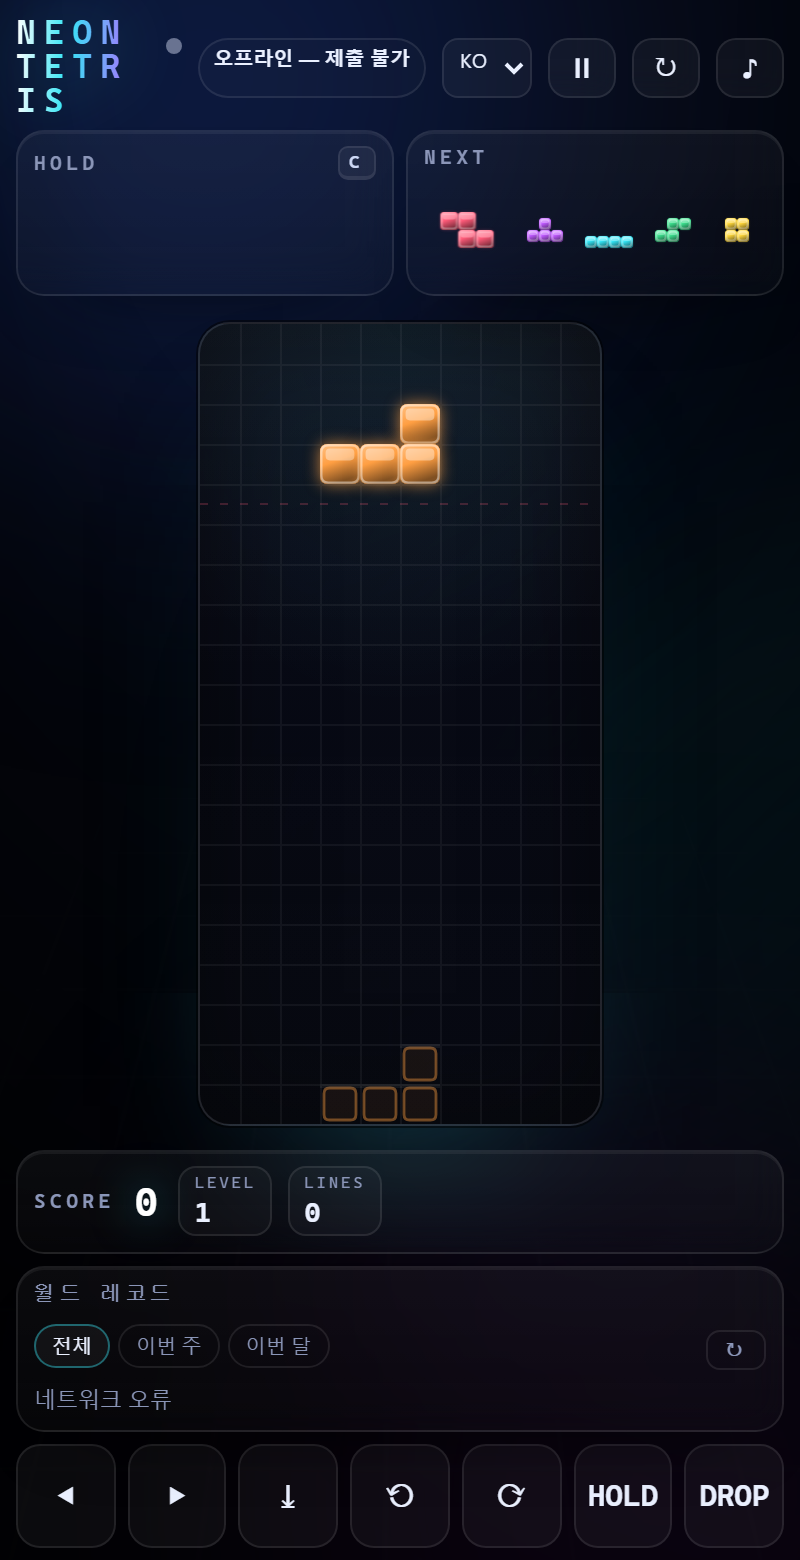
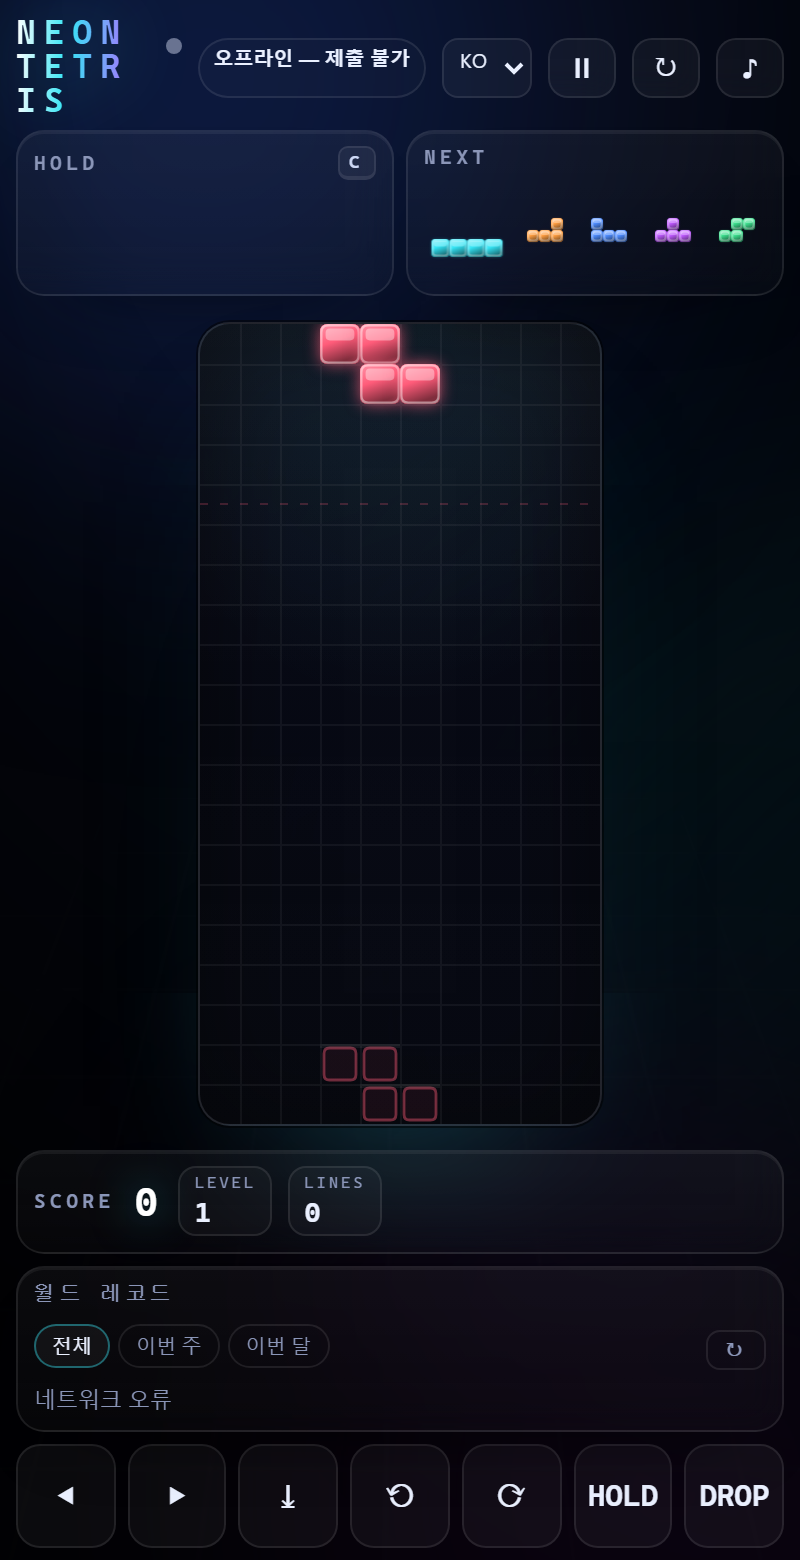
T-스핀 규칙 r1(하드 드롭 시 스핀 해제) + 규칙 버전 리플레이 포맷 + 공유 키 64bit
- audit: 하드 드롭으로 실제로 내려간 뒤에도 회전 플래그가 남아 T-스핀으로 인정되던 것 수정(가이드라인은 '마지막 동작이 회전'일 때만 인정)
- engine: 하드 드롭 dist>0 → spinFlag 해제, dist=0(회전 인스냅트) 은 유지
- replay: NT2 포맷(마지막에 rules), canonical 에 rules 포함, NT1 은 r0 으로 읽기
- server: runs.rules 컬럼(마이그레이션), 다른 규칙 버전은 재시뮬 전에 early 거절
- share key: 48bit → 64bit + 체크섬(링크가 곧 소유 증서이고 만료가 없으므로)
- tests: T-스핀 16종(TSD 진입/무회전/제자리 드롭/이동 드롭/중력/킥 만회/NT1 호환), 공유 키 형식, 규칙 버전 불일치 거절
- probe: 실제 시작 경로 호출 + 녹화 메타 규칙 버전 확인(이 파일에서 잡히지 않던 ReferenceError 급을 잡도록)
- docs: 규칙 버전 섹션(왜 올려야 하는지), SECURITY 링크 키/규칙 버전 행

diff --git a/tools/selftest.js b/tools/selftest.js
@@ -152,7 +152,86 @@ const ws = EN.simulate(wrongSeed);
 ok('시드 교체 → 결과 불일치', ws.engine.boardHash() !== rep.hash);
 ok('해시로 시드 검증 가능', ws.engine.sequenceHash() !== EN.create({ seed: rep.seed }).sequenceHash());
 
-/* ---------- 7. AI 성능(휴리스틱 기준선) ---------- */
+/* ---------- 7. T-스핀 — 가이드라인 판정 (규칙 r1) ---------- */
+group('T-스핀 — 회전으로만 진입해야 인정 (r1)');
+/** TSD 픽스처:
+ *   row17  # . . . . . . . . .      ← 오버행
+ *   row18  . . . _ _ _ . . . .      ← 조각이 채울 자리
+ *   row19  . . . # _ # . . . .      ← 앞면 양쪽 모서리(바닥 아님, 실제 블록)
+ */
+function tsdBoard() {
+  const b = C.createBoard();
+  for (let x = 0; x < 10; x++) {
+    if (x !== 4) b[19][x] = 'J';
+    if (x !== 3 && x !== 4 && x !== 5) b[18][x] = 'J';
+  }
+  b[17][3] = 'J';
+  return b;
+}
+function putT(seed) {
+  const et = EN.create({ seed: seed });
+  et.board = tsdBoard();
+  et.piece = null; et.spawn('T');
+  return et;
+}
+const settle = (et) => { for (let i = 0; i < EN.CLEAR_TICKS + 4; i++) et.tick(); };
+
+let et = putT('tsd-spin');
+et.piece.rot = 1; et.piece.x = 3; et.piece.y = 17;                 //회전 전 상태(접지 확인됨)
+ok('회전 전에는 그 자리에 닿아 있다(회전이 유일한 진입 수단)', C.collides(et.board, C.STATES.T[1], 3, 18));
+ok('회전 성공', et.rotate(1) === true);
+et.lockPiece(); settle(et);
+ok('회전으로 진입 → T-스핀 인정', et.tspins === 1, et.tspins);
+ok('T-스핀 더블 = 2줄 / 1200점', et.lines === 2 && et.score === 1200, et.lines + '/' + et.score);
+
+et = putT('tsd-nosin');
+et.piece.rot = 2; et.piece.x = 3; et.piece.y = 17; et.lockPiece(); settle(et);   //그냥 놓기
+ok('회전 없이 같은 자리 → 일반 더블(300점)', et.tspins === 0 && et.score === 300, et.tspins + '/' + et.score);
+
+et = putT('tsd-inplace');
+et.piece.rot = 1; et.piece.x = 3; et.piece.y = 17; et.rotate(1); et.hardDrop(); settle(et);
+ok('회전 후 제자리 하드 드롭(이동 0)은 스핀 유지', et.tspins === 1 && et.score === 1200, et.tspins + '/' + et.score);
+
+et = EN.create({ seed: 'drop-moves' }); et.piece = null; et.spawn('T');
+et.rotate(1);
+ok('회전 → 플래그', et.spinFlag === true);
+et.hardDrop();                                                   //먼 거리로 미끄러짐
+ok('하드 드롭으로 이동하면 마지막 동작이 회전이 아니다 → 스핀 해제 (r1)', et.spinFlag === false && et.tspins === 0, et.spinFlag + '/' + et.tspins);
+ok('하드 드롭 점수(칸당 +2)는 그대로', et.score >= 30, et.score);
+
+et = putT('gravity');
+et.piece.rot = 2; et.piece.x = 3; et.piece.y = 10;
+let g2 = 0; while (et.pieces === 0 && g2++ < 400) et.tick();      //중력으로만 착지
+ok('중력 착지는 스핀이 아니다', et.tspins === 0, et.tspins);
+
+/* 앞면 모서리가 한쪽만 차도 5번째 킥(대각 만회)이면 full.
+   rot1(nub 오른쪽) · x=3,y=17: 모서리 = (3,17)TL (5,17)TR (3,19)BL (5,19)BR, 앞면은 TR/BR.
+   TL+BL+BR 이 차면 3코너인데 앞면은 BR 하나뿐 → mini. */
+const b5 = C.createBoard();
+b5[17][3] = 'J'; b5[19][3] = 'J'; b5[19][5] = 'J';
+ok('3코너 + 앞면 한쪽 = mini', C.tspinKind(b5, { type: 'T', x: 3, y: 17, rot: 1 }, 0) === 'mini',
+  C.tspinKind(b5, { type: 'T', x: 3, y: 17, rot: 1 }, 0));
+ok('같은 자리에서 5번째 킥이면 full 로 만회', C.tspinKind(b5, { type: 'T', x: 3, y: 17, rot: 1 }, 4) === 'full',
+  C.tspinKind(b5, { type: 'T', x: 3, y: 17, rot: 1 }, 4));
+const b5b = C.createBoard();
+b5b[17][3] = 'J'; b5b[17][5] = 'J';
+ok('코너 2개 이하면 노스핀', C.tspinKind(b5b, { type: 'T', x: 3, y: 17, rot: 1 }, 0) === 'none',
+  C.tspinKind(b5b, { type: 'T', x: 3, y: 17, rot: 1 }, 0));
+
+/* ---------- 8. 규칙 버전 ---------- */
+group('규칙 버전(r1)이 리플레이에 박힌다');
+const repV = AI.run({ seed: 'rules-ver', preset: 'human', rng: AI.makeRand('rv') });
+ok('pack 된 리플레이에 규칙 버전', RP.unpack(RP.pack(repV)).rules === EN.RULES_ID, RP.unpack(RP.pack(repV)).rules);
+ok('규칙이 다르면 digest 도 다르다',
+  RP.canonical(Object.assign({}, repV, { rules: 'r9' })) !== RP.canonical(repV));
+ok('NT1(레거시) 포맷도 읽는다', (function () {
+  const p = RP.pack(repV).split(':');                       // NT2 = 12필드
+  const legacyText = 'NT1:' + p.slice(1, 11).join(':');      // 규칙 필드를 뺀 11필드
+  return RP.unpack(legacyText).rules === RP.LEGACY_RULES;
+})());
+
+
+/* ---------- 9. AI 성능(휴리스틱 기준선) ---------- */
 group('AI 기준선');
 const fast = AI.run({ seed: 'fast-bot', skill: { delay: 0, gap: 1 } });
 const slow = AI.run({ seed: 'fast-bot', skill: { delay: 12, gap: 8 } });

diff --git a/replay.js b/replay.js
@@ -17,7 +17,10 @@
 })(typeof self !== 'undefined' ? self : globalThis, function (EN) {
   'use strict';
 
-  const VERSION = 'NT1';
+  /* NT2 = 규칙 버전(r1 등)을 payload 끝에 붙인다. NT1(레거시) 은 r0 으로 읽는다.
+     규칙이 다른 리플레이는 서버가 재현할 수 없으니 일찍 구분해 둔다. */
+  const VERSION = 'NT2';
+  const LEGACY_RULES = 'r0';
   const PRESS = { left: 'l', right: 'r', down: 'd', cw: 'c', ccw: 'z', flip: 'f', hard: 'h', hold: 'o' };
   const REL = { left: 'L', right: 'R', down: 'D' };
   const BY_CODE = {};
@@ -59,7 +62,7 @@
 
   /** 서버·클라임이 같은 문자열로 digest 를 만들 수 있도록 규격화를 한 곳에 둔다. */
   function canonical(rec) {
-    return [VERSION, rec.mode, rec.level | 0, rec.g20 ? 1 : 0, rec.seed, encodeInputs(rec.inputs || [])].join('|');
+    return ['NT', rec.rules || LEGACY_RULES, rec.mode, rec.level | 0, rec.g20 ? 1 : 0, rec.seed, encodeInputs(rec.inputs || [])].join('|');
   }
 
   /* ---- 전체 레코드 ---- */
@@ -67,14 +70,15 @@
     return [
       VERSION, rec.mode, rec.level | 0, rec.g20 ? 1 : 0, rec.seed,
       rec.ticks | 0, rec.score | 0, rec.lines | 0, rec.pieces | 0, rec.hash,
-      encodeInputs(rec.inputs || []),
+      encodeInputs(rec.inputs || []), rec.rules || EN.RULES_ID,
     ].join(':');
   }
 
   function unpack(text) {
     const p = String(text).trim().split(':');
-    if (p.length !== 11) throw new Error('항목 수 불일치');
-    if (p[0] !== VERSION) throw new Error('버전 불일치: ' + p[0]);
+    const legacy = p[0] === 'NT1';
+    if (p.length !== (legacy ? 11 : 12)) throw new Error('항목 수 불일치');
+    if (!legacy && p[0] !== VERSION) throw new Error('버전 불일치: ' + p[0]);
     const mode = p[1];
     if (!EN.MODES[mode]) throw new Error('알 수 없는 모드: ' + mode);
     const inputs = decodeInputs(p[10]);
@@ -89,6 +93,7 @@
       lines: parseInt(p[7], 10) || 0,
       pieces: parseInt(p[8], 10) || 0,
       hash: p[9],
+      rules: legacy ? LEGACY_RULES : p[11],
       inputs: inputs,
       lastInputTick: inputs.length ? inputs[inputs.length - 1].t : 0,
     };
@@ -96,6 +101,7 @@
 
   /** 서버가 재시뮬하기 전에 거르는 저비용 형태 검사 */
   const SEED_RE = /^[0-9a-zA-Z_-]{6,64}$/;
+  const RULES_RE = /^[a-z][a-z0-9]{0,3}$/;
   function checkShape(rec, lim) {
     lim = lim || {};
     const maxInputs = lim.maxInputs || 40000;
@@ -111,6 +117,7 @@
     if (!(rec.lines >= 0 && rec.lines <= 4000)) errs.push('lines');
     if (!(rec.pieces >= 0 && rec.pieces <= 40000)) errs.push('pieces');
     if (!/^[0-9a-z]{4,10}$/.test(String(rec.hash))) errs.push('hash');
+    if (!RULES_RE.test(String(rec.rules || LEGACY_RULES))) errs.push('rules');
     if (!(rec.inputs.length > 0)) errs.push('no-inputs');
     if (rec.inputs.length > maxInputs) errs.push('too-many-inputs');
     let prev = 0;
@@ -157,6 +164,7 @@
 
   return {
     VERSION: VERSION,
+    LEGACY_RULES: LEGACY_RULES,
     canonical: canonical,
     PRESS: PRESS, REL: REL,
     encodeInputs: encodeInputs,

diff --git a/engine.js b/engine.js
@@ -28,6 +28,15 @@
   const MAX_LEVEL = 20;
   const PREVIEW = 5;
 
+  /**
+   * 규칙 버전. 리플레이는 "같은 입력 → 같은 결과"를 약속하는 문서 같은 것이므로,
+   * 점수표·킥 테이블·T-스핀 판정 같은 규칙을 바꾸면 반드시 올린다.
+   * 안 올리면 과거 리플레이가 서버에서 다른 점수로 재현되어 **검증 불가능한 유물**이 되고,
+   * 그건 나중에 되돌릴 방법이 없다.
+   *   r1 : SRS+월킥, 3-corner T-스핀(5th킥 full 승격), **하드 드롭으로 이동하면 스핀 해제**, 가이드라인 스코어링
+   */
+  const RULES_ID = 'r1';
+
   /* ---------- 모드 ---------- */
   const MODES = {
     marathon: { name: 'MARATHON', targetLines: 0, timeLimit: 0, metric: 'score' },
@@ -96,6 +105,7 @@
       g20: g20,
       seed: seed,
       version: 1,
+      rules: RULES_ID,
 
       state: 'playing',      // playing | clearing | over
       overReason: null,      // topout | finish | time
@@ -235,6 +245,11 @@
       while (!C.collides(E.board, m, E.piece.x, E.piece.y + 1)) { E.piece.y++; dist++; }
       E.lastHard = true;
       if (dist) {
+        /* 가이드라인: T-스핀은 "마지막 동작이 회전"일 때만 인정된다.
+           아래로 미끄러져 내려갔다면 마지막 동작은 이동이므로 스핀이 아니다.
+           단 이동 거리가 0(제자리에서 회전하고 그대로 잠금)이면 회전 효과가 남는다 —
+           회전 인스냅트 착지의 일반 동작과 일치. */
+        E.spinFlag = false;
         E.score += dist * 2;
         ev('harddrop', {
           dist: dist,
@@ -496,7 +511,7 @@
     /** 서버 검증·보드에 쓰이는 최종 결과 (재현 판정 대상) */
     function result() {
       return {
-        mode: E.mode, level: E.startLevel, g20: E.g20, seed: E.seed,
+        mode: E.mode, level: E.startLevel, g20: E.g20, seed: E.seed, rules: E.rules,
         score: E.score, lines: E.lines, pieces: E.pieces, ticks: E.ticks,
         hash: boardHash(),
         state: E.state, overReason: E.overReason,
@@ -583,6 +598,7 @@
   }
 
   return {
+    RULES_ID: RULES_ID,
     TICK: TICK, HZ: HZ,
     DAS: DAS, ARR: ARR, SOFT: SOFT, LOCK: LOCK, CLEAR_TICKS: CLEAR_TICKS,
     MAX_RESETS: MAX_RESETS, MAX_LEVEL: MAX_LEVEL, PREVIEW: PREVIEW,

diff --git a/tools/verifytest.js b/tools/verifytest.js
@@ -141,7 +141,7 @@ async function playAndSubmit(me, opt) {
   ok('status verified 또는 flagged', ['verified', 'flagged'].indexOf(p1.submit.json.status) >= 0, p1.submit.json);
   ok('점수가 실제로 재현됨(서버 재시뮬)', p1.submit.json.status !== 'rejected');
   ok('1위 등록', p1.submit.json.rank === 1, p1.submit.json.rank);
-  ok('공유 키 형식', /^[0-9a-f]{12}[0-9a-z]$/.test(p1.submit.json.share || ''), p1.submit.json.share);
+  ok('공유 키 형식', /^[0-9a-f]{16}[0-9a-z]$/.test(p1.submit.json.share || ''), p1.submit.json.share);
   ok('flags 배열', Array.isArray(p1.submit.json.flags));
   console.log('    → ' + p1.submit.json.status + ' / ' + p1.rep.score + '점 / PPS ' + p1.submit.json.metrics.pps.toFixed(2) +
     ' / gapModeShare ' + (p1.submit.json.metrics.gapModeShare || 0).toFixed(2) + ' / flags ' + (p1.submit.json.flags||[]).join(',') + ' / share ' + p1.submit.json.share);
@@ -208,6 +208,18 @@ async function playAndSubmit(me, opt) {
   const unknownSeed = RP.pack(AI.run({ seed: 'not-issued-by-server', preset: 'casual' }));
   const uns = await api('POST', '/api/submit', { replay: unknownSeed, fp: thief.fp }, '211.1.1.15');
   ok('서버 미발급 시드 → 거부', uns.code === 422 && uns.json.why === 'seed-unknown', uns.json);
+
+  /* 다른 규칙 버전의 리플레이는 재시뮬을 태우지 않고 early 거절 (소유권까지 통과된 정상 요청 가정) */
+  const rvs = await api('POST', '/api/session', { mode: 'marathon', fp: thief.fp }, '211.1.1.18');
+  const rvRep = AI.run({ seed: rvs.json.seed, preset: 'casual', rng: AI.makeRand('rv') });
+  const rvRec = RP.unpack(RP.pack(rvRep)); rvRec.rules = 'r9';
+  const rvPacked = RP.pack(rvRec);
+  const rv = await api('POST', '/api/submit', {
+    replay: rvPacked, fp: thief.fp, nonce: rvs.json.nonce,
+    owner: { jwk: thief.jwk, sig: thief.sign('NTSUB1', [V.digestOf(rvRec), rvs.json.nonce]) },
+  }, '211.1.1.18');
+  const rvDone = await settleSubmit(rv);
+  ok('다른 규칙 버전 → rules-version 으로 기각', rvDone.code === 422 && /rules-version/.test(rvDone.json.code || ''), rvDone.json);
 
   // 남의 1회용 시드를 내 입력에 붙이면? (시드만 훔치는 경우)
   const hijack = AI.run({ seed: 'dummy', preset: 'casual' });

diff --git a/server/db.js b/server/db.js
@@ -68,6 +68,7 @@ CREATE TABLE IF NOT EXISTS runs (
   challenge_of TEXT,                  -- 격파 대상 share 키
   rank_at_submit INTEGER,
   client_ver TEXT, lang TEXT, issued_at INTEGER, submitted_at INTEGER NOT NULL,
+  rules TEXT,                      -- 어떤 규칙 버전으로 플레이됐는지 (재현 가능성의 기준)
   verified_at INTEGER,                 -- 검증(또는 기각)이 끝난 시각
   metrics TEXT,                        -- 검증 때 계산한 지표 JSON (검수용)
   mismatch TEXT,                       -- 기각된 경우 어긋난 칸
@@ -143,6 +144,7 @@ CREATE TABLE IF NOT EXISTS kv (k TEXT PRIMARY KEY, v TEXT NOT NULL);
     if (!rc.has(name)) { console.log('[migrate] runs.' + name + ' 추가'); db.exec('ALTER TABLE runs ADD COLUMN ' + decl); }
   };
   add('verified_at', 'INTEGER');
+  add('rules', 'TEXT');
   add('metrics', 'TEXT');
   add('mismatch', 'TEXT');
   add('queue_tier', 'INTEGER DEFAULT 1');
@@ -167,18 +169,20 @@ function boardParts(key) {
 }
 function metricOf(mode) { return mode === 'sprint' ? 'time' : 'score'; }
 
+/* 공유 링크는 만료시키지 않고 영원히 유지한다 → 링크가 곧 소유 증서다.
+   그래서 48bit(12 hex) 가 아니라 64bit + 오타 탐지 체크섬 1자. */
 function shareKey() {
-  const raw = crypto.randomBytes(6).toString('hex');
+  const raw = crypto.randomBytes(8).toString('hex');
   let sum = 0;
   for (let i = 0; i < raw.length; i++) sum += raw.charCodeAt(i) * (i + 3);
   return raw + (sum % 36).toString(36);
 }
 function validShare(key) {
-  if (!/^[0-9a-f]{12}[0-9a-z]$/.test(String(key || ''))) return false;
+  if (!/^[0-9a-f]{16}[0-9a-z]$/.test(String(key || ''))) return false;
   let sum = 0;
-  const raw = key.slice(0, 12);
+  const raw = key.slice(0, 16);
   for (let i = 0; i < raw.length; i++) sum += raw.charCodeAt(i) * (i + 3);
-  return (sum % 36).toString(36) === key.slice(12);
+  return (sum % 36).toString(36) === key.slice(16);
 }
 
 /* ================= 레이트리밋 / 차단 ================= */

diff --git a/tools/e2e.js b/tools/e2e.js
@@ -9,7 +9,12 @@
 process.env.NT_TEST_MODE = '1';
 const fs = require('fs');
 const path = require('path');
+const os = require('os');
 const { spawn } = require('child_process');
+
+/* 리플레이/공유 키 형식이 바뀌면 이전 테스트 DB 와 섞이지 않는다 (스키마는 마이그레이션되지만
+   구버전 공유 키·시드는 새 검증기와 맞지 않아서 오진이 난다). */
+process.env.NT_DATA = fs.mkdtempSync(path.join(os.tmpdir(), 'nt-e2e-'));
 
 const ROOT = path.resolve(__dirname, '..');
 const PORT = 8931 + Math.floor(Math.random() * 40);
@@ -175,9 +180,9 @@ async function waitHttp(url, tries) {
   ok('서버 응답 도달', !!play.res, play.res);
   ok('검증 통과(verified 또는 flagged)', play.ok || play.warn, play.res);
   ok('순위 문구', /\d+위|rank|#/i.test(play.rank), play.rank);
-  ok('packed 리플레이 생성', /^NT1:/.test(play.packed || ''), play.packed);
+  ok('packed 리플레이 생성', /^NT2:/.test(play.packed || ''), play.packed);
   const share = (play.shareUrl || '').split('/r/')[1];
-  ok('공유 키 발급', /^[0-9a-f]{12}[0-9a-z]$/.test(share || ''), play.shareUrl);
+  ok('공유 키 발급', /^[0-9a-f]{16}[0-9a-z]$/.test(share || ''), play.shareUrl);
   console.log('    → ' + play.score + '점 / ' + play.lines + '줄 / share ' + share + ' / ' + play.res);
   group('3. 서버 측 결과와 브라우저 결과가 일치');
   const api = await (await fetch(BASE + '/api/replay/' + share)).json();

diff --git a/probe.js b/probe.js
@@ -437,7 +437,22 @@ async function waitForTarget() {
   console.log('   ', mob);
   await cmd('Emulation.clearDeviceMetricsOverride');
 
-  console.log('\n[7] 스크린샷 저장');
+  console.log('\n[7] 실제 시작 경로(플레이 버튼이 타는 그 함수) + 녹화 메타');
+  const RULES_EXPECT = 'r1';
+  const startPath = JSON.parse(await evalJS(`(async () => {
+    const out = { err: null, meta: null };
+    try {
+      window.TetrisDebug.start();               // 버튼과 동일한 경로 — 여기서 예외가 나면 안 된다
+      await new Promise(r => setTimeout(r, 120));
+      out.meta = window.TetrisDebug.recMeta();
+    } catch (e) { out.err = String((e && e.message) || e); }
+    return JSON.stringify(out);
+  })()`, true));
+  console.log('   ', startPath.err ? ('EX: ' + startPath.err) : startPath.meta);
+  if (startPath.err) errors.push('START: ' + startPath.err);
+  if (!startPath.meta || startPath.meta.rules !== RULES_EXPECT) errors.push('START: 녹화 메타에 규칙 버전 없음');
+
+  console.log('\n[8] 스크린샷 저장');
   await cmd('Emulation.setDeviceMetricsOverride', { width: 400, height: 780, deviceScaleFactor: 2, mobile: true });
   await sleep(600);
   const shot2 = await cmd('Page.captureScreenshot', { format: 'png' });

diff --git a/server/verify.js b/server/verify.js
@@ -186,6 +186,9 @@ function verify(rec, ctx) {
   const shape = RP.checkShape(rec, CFG.LIMITS);
   if (shape.length) return reject('shape:' + shape.join(','));
   if (!EN.MODES[rec.mode]) return reject('shape:mode');
+  /* 규칙 버전이 다르면 재현 자체가 성립하지 않는다 — 비싼 시뮬을 쓰기 전에 early 거둔다.
+     과거 규칙도 검증하려면 그 버전의 규칙 테이블을 따로 보존해야 한다. */
+  if (rec.rules && rec.rules !== EN.RULES_ID) return reject('rules-version:' + rec.rules + '!=' + EN.RULES_ID);
 
   /* 2. 물리적 하한 — 조각/줄 수 대비 너무 짧으면 기각 (짧은 게임 자체는 합법적으로 허용) */
   const L = CFG.LIMITS;
@@ -300,6 +303,7 @@ function publicRun(run, opt) {
     rankAtSubmit: run.rank_at_submit, submittedAt: run.submitted_at, verifiedAt: run.verified_at || null,
     fp: run.fp || null,
     codename: null, ipHint: null,
+    rules: run.rules || null,
     metrics: (function () {
       try { return Object.assign({ pps: run.pps, apm: run.apm, inputs: run.input_count, inpRate: run.inp_rate }, run.metrics ? JSON.parse(run.metrics) : {}); }
       catch (e) { return { pps: run.pps, apm: run.apm, inputs: run.input_count }; }

diff --git a/server/server.js b/server/server.js
@@ -411,7 +411,7 @@ async function handleApi(req, res, u) {
       share: DB.shareKey(), digest: digest, replay: String(body.replay), board: board,
       mode: rec.mode, level: rec.level, g20: rec.g20 ? 1 : 0, seed: rec.seed,
       score: rec.score, lines: rec.lines, pieces: rec.pieces, ticks: rec.ticks, hash: rec.hash,
-      status: 'queued', input_count: rec.inputs.length, ghost: null,
+      rules: rec.rules || EN.RULES_ID, status: 'queued', input_count: rec.inputs.length, ghost: null,
     }, {
       ipHash: iph, ipHint: ID.ipMask(ip), fp: fp, reveal: body.reveal !== false,
       challengeOf: challengeOf, clientVer: body.clientVer, lang: body.lang, issuedAt: tok.issuedAt,
@@ -482,7 +482,7 @@ const server = http.createServer(async (req, res) => {
       if (rel === 'index.html') return serveIndex(req, res, null);
       return serveStatic(res, rel, type);
     }
-    const m = /^\/r\/([0-9a-z]{13})$/.exec(p);            // 공유 링크
+    const m = /^\/r\/([0-9a-z]{17})$/.exec(p);            // 공유 링크
     if (m) {
       const run = DB.getRunByShare(m[1]);
       if (!run || ['rejected', 'hidden', 'withdrawn'].indexOf(run.status) >= 0) {

diff --git a/game.js b/game.js
@@ -418,7 +418,7 @@
 
   function engineFor(seed) {
     E = EN.create({ seed: seed, mode: opts.mode, level: opts.level, g20: opts.g20 });
-    rec = { seed: seed, mode: opts.mode, level: opts.level, g20: opts.g20, startedAt: Date.now(), inputs: [] };
+    rec = { seed: seed, mode: opts.mode, level: opts.level, g20: opts.g20, rules: EN.RULES_ID, startedAt: Date.now(), inputs: [] };
     playb = null;
     paused = false;
     G.particles.length = 0; G.popups.length = 0; G.shake = 0;
@@ -963,6 +963,8 @@
       replay: function (share) { return startPlayback(share, true); },
       challenge: function (share) { return startChallenge(share); },
       packed: function () { return G.lastPacked; },
+      /** 녹화 중인 메타(start 직전/중) — 규칙 버전 등이 처음부터 박혀 있는지 검사용 */
+      recMeta: function () { return rec ? { rules: rec.rules, mode: rec.mode, level: rec.level, seed: rec.seed, inputs: rec.inputs.length } : null; },
     };
   }
 

diff --git a/client.js b/client.js
@@ -611,12 +611,8 @@
 
   /** /r/<share> 로 직접 들어온 경우 키 추출 */
   CL.pathShare = function () {
-    const m = /^\/r\/([0-9a-z]{13})$/.exec(location.pathname);
-    if (!m) return null;
-    const k = m[1];
-    let sum = 0;
-    for (let i = 0; i < 12; i++) sum += k.charCodeAt(i) * (i + 3);
-    return (sum % 36).toString(36) === k[12] ? k : k;   // 체크섬 실패해도 일단 시도(서버가 404)
+    const m = /^\/r\/([0-9a-z]{17})$/.exec(location.pathname);
+    return m ? m[1] : null;          // 체크섬까지 포함한 형식은 서버가 검사한다
   };
   CL.t = function (k, v) { return L.t(k, v); };
 })();
